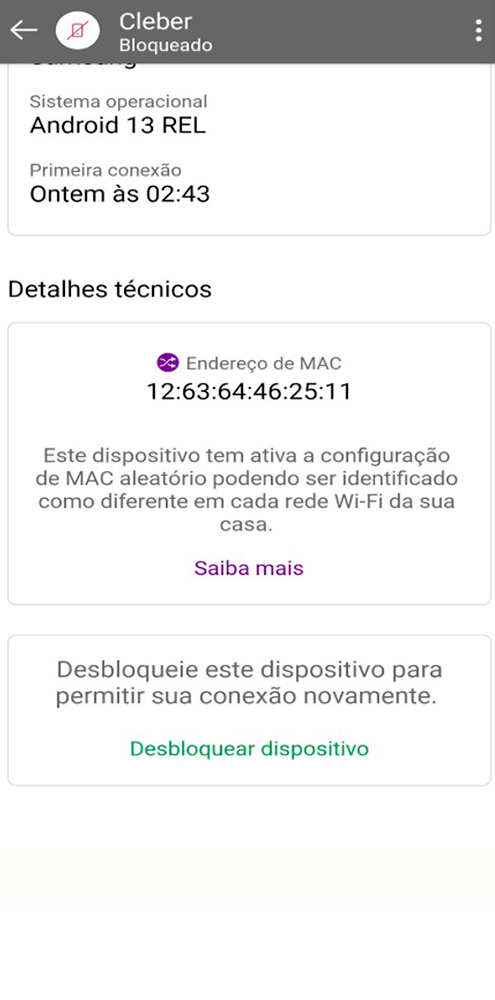
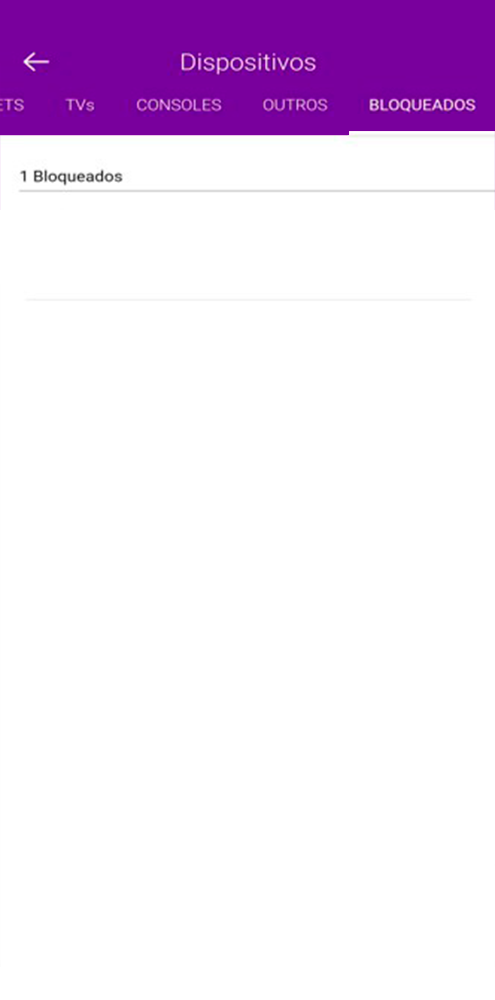
commit ajustes tela 5

diff --git a/course/screens/5/tela.css b/course/screens/5/tela.css
@@ -7,17 +7,6 @@
     color: white;
 }
 
-.foco {
-    top: 42%;
-    left: 50%;
-    width: 7rem;
-    height: 7rem;
-    cursor: pointer;
-    border-radius: 50%;
-    border: 5px dashed #609;
-    background-color: transparent;
-}
-
 .hole {
     top: 9.4%;
     left: 50%;
@@ -91,8 +80,10 @@
 
 .s2 .foco {
     top: 79.8%;
-    left: 13.1%;
-    border: 5px dashed #fff;
+    left: 13.2%;
+    width: 5.4rem;
+    height: 5rem;
+    background-image: url(../../img/btn_print_icone_todos.png);
 }
 
 .s3 {
@@ -103,12 +94,6 @@
     top: 27%;
     left: 65%;
     width: 50%;
-}
-
-.s3 .foco {
-    top: 13.5%;
-    left: 76%;
-    border: 5px dashed #CC3D70;
 }
 
 .s4 {
@@ -122,15 +107,15 @@
 }
 
 .s4 .foco {
-    top: 9.5%;
-    left: 79.8%;
-    width: 11rem;
-    height: 11rem;
-    border: 5px dashed #CC3D70;
+    top: 9.4%;
+    left: 79.95%;
+    width: 9.3rem;
+    height: 3rem;
+    background-image: url(../../img/btn_print_bloqueados_white.png);
 }
 
 .s5 {
-    background-image: url(img/print_3.png);
+    background-image: url(img/print_4.png);
 }
 
 .s5 .hole {
@@ -146,13 +131,14 @@
 
 .s5 .foco {
     top: 23.6%;
-    left: 80%;
-    width: 13rem;
-    height: 13rem;
+    left: 49.8%;
+    width: 42rem;
+    height: 8rem;
+    background-image: url(../../img/btn_print_cleber_seta.png);
 }
 
 .s6 {
-    background-image: url(img/print_4.png);
+    background-image: url(img/print_5.png);
 }
 
 .s6 .hole {
@@ -166,13 +152,13 @@
 
 .s6 .foco {
     top: 75%;
-    width: 27rem;
-    height: 5rem;
-    border-radius: unset;
+    left: 50.2%;
+    width: 20.9rem;
+    background-image: url(../../img/btn_print_desbloquear_dispositivo.png);
 }
 
 .s7 {
-    background-image: url(img/print_5.png);
+    background-image: url(img/print_6.png);
 }
 
 .s7 .hole {

diff --git a/course/screens/5/tela.html b/course/screens/5/tela.html
@@ -19,7 +19,7 @@
             <button class="pulse2 fechar" onclick="closeBalao(this)"></button>
         </div>
 
-        <div class="abs foco pulse" onclick="nextCard()" style="display: none;"></div>
+        <div class="divImg foco" onclick="nextCard()"></div>
     </section>
 
     <section class="s3">
@@ -43,7 +43,7 @@
             <button class="pulse2 fechar" onclick="closeBalao(this)"></button>
         </div>
 
-        <div class="abs foco pulse" onclick="nextCard()" style="display: none;"></div>
+        <div class="divImg foco" onclick="nextCard()"></div>
     </section>
 
     <section class="s5">
@@ -56,7 +56,7 @@
             <button class="pulse2 fechar" onclick="closeBalao(this)"></button>
         </div>
 
-        <div class="abs foco pulse" onclick="nextCard()" style="display: none;"></div>
+        <div class="divImg foco" onclick="nextCard()"></div>
     </section>
 
     <section class="s6">
@@ -69,7 +69,7 @@
             <button class="pulse2 fechar" onclick="closeBalao(this)"></button>
         </div>
 
-        <div class="abs foco pulse" onclick="nextCard()" style="display: none;"></div>
+        <div class="divImg foco" onclick="nextCard()"></div>
     </section>
 
     <section class="s7">

diff --git a/course/screens/5/tela.js b/course/screens/5/tela.js
@@ -32,5 +32,5 @@ function closeBalao(e) {
     hole.parentNode.removeChild(hole)
     e.parentElement.parentElement.removeChild(e.parentElement)
 
-    if (document.body.contains(destaque)) destaque.style.display = 'block';
+    if (document.body.contains(destaque)) destaque.classList.add('pulse');
 }

diff --git a/course/js/main.js b/course/js/main.js
@@ -1,6 +1,6 @@
 //Numero de telas
 var n_telas = 1;
-var c_screen = 5;
+var c_screen = 6;
 
 const container = $("#loaded_content");
 
